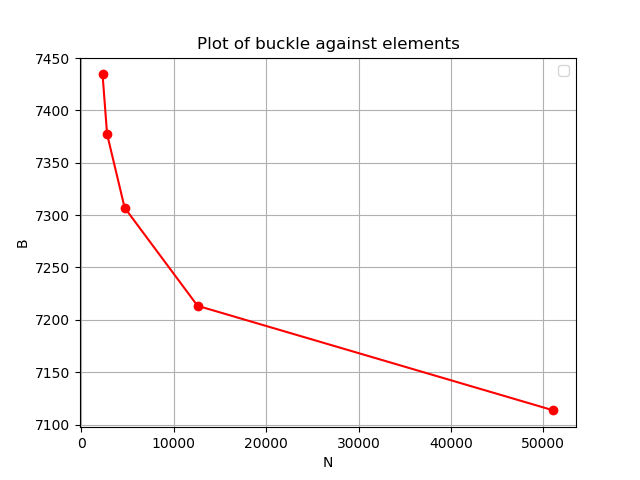
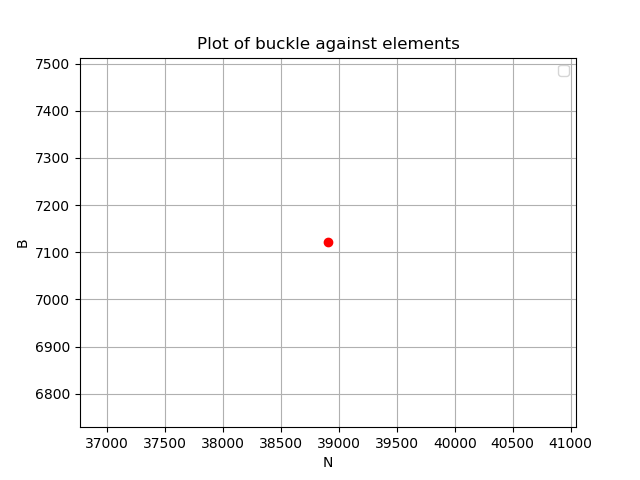
fixed plots with buckling update dfirst iter folder

diff --git a/iter 1.5/main.py b/iter 1.5/main.py
@@ -108,17 +108,17 @@ MODELS = ['GenDes1',
 
 def mesh_number(PART_NAME,start,stop,steps):
     if PART_NAME == "Blank":
-        start = 3.0+2.5*steps if start<3.0 else start
-        stop = 3.0 if stop<3.0 else stop
+        start = 4.0+2.5*steps if start<4.0 else start
+        stop = 4.0 if stop<4.0 else stop
         MESH = [round(start + ((stop - start) / (steps-1)) * i,2) for i in range(steps)] if steps>1 else [start]
         return MESH
     else:
         MESH = [round(start + ((stop - start) / (steps-1)) * i,2) for i in range(steps)] if steps>1 else [start]
         return MESH
         
-start=10.0
+start=3.0
 stop=2.75
-steps=5
+steps=1
 
 
 for part in MODELS:
@@ -161,6 +161,29 @@ for part in MODELS:
                 variableLabel='U', outputPosition=NODAL, refinement=(COMPONENT, 'U2'), )
             session.printToFile(fileName=os.path.join(texts_directory,PART_NAME+'_deflection_visualisation'), format=PNG, canvasObjects=(
                 session.viewports['Viewport: 1'], ))
+            session.printOptions.setValues(vpBackground=ON, compass=ON)
+            session.viewports['Viewport: 1'].odbDisplay.display.setValues(plotState=(
+                UNDEFORMED, ))
+            session.printToFile(fileName=os.path.join(texts_directory,PART_NAME+'_undeformed_visualisation'), format=PNG, canvasObjects=(
+                session.viewports['Viewport: 1'], ))
+            print("HERE1")
+            absolute_path = os.path.join(current_directory, relative_path+'-Buckle.odb')
+            print("HERE2")
+            o2 = session.openOdb(name=absolute_path)
+            print("HERE3")
+            session.viewports['Viewport: 1'].setValues(displayedObject=o2)
+            session.viewports['Viewport: 1'].makeCurrent()
+            print("HERE4")
+            session.viewports['Viewport: 1'].odbDisplay.display.setValues(plotState=(
+                CONTOURS_ON_DEF, ))
+            print("HERE5")
+            session.viewports['Viewport: 1'].odbDisplay.setPrimaryVariable(
+                variableLabel='U', outputPosition=NODAL, refinement=(INVARIANT, 
+                'Magnitude'), )
+            session.printToFile(fileName=os.path.join(texts_directory,PART_NAME+'_buckled_visualisation'), format=PNG, canvasObjects=(
+                session.viewports['Viewport: 1'], ))
+            print("THERE")
+
 
 
 
